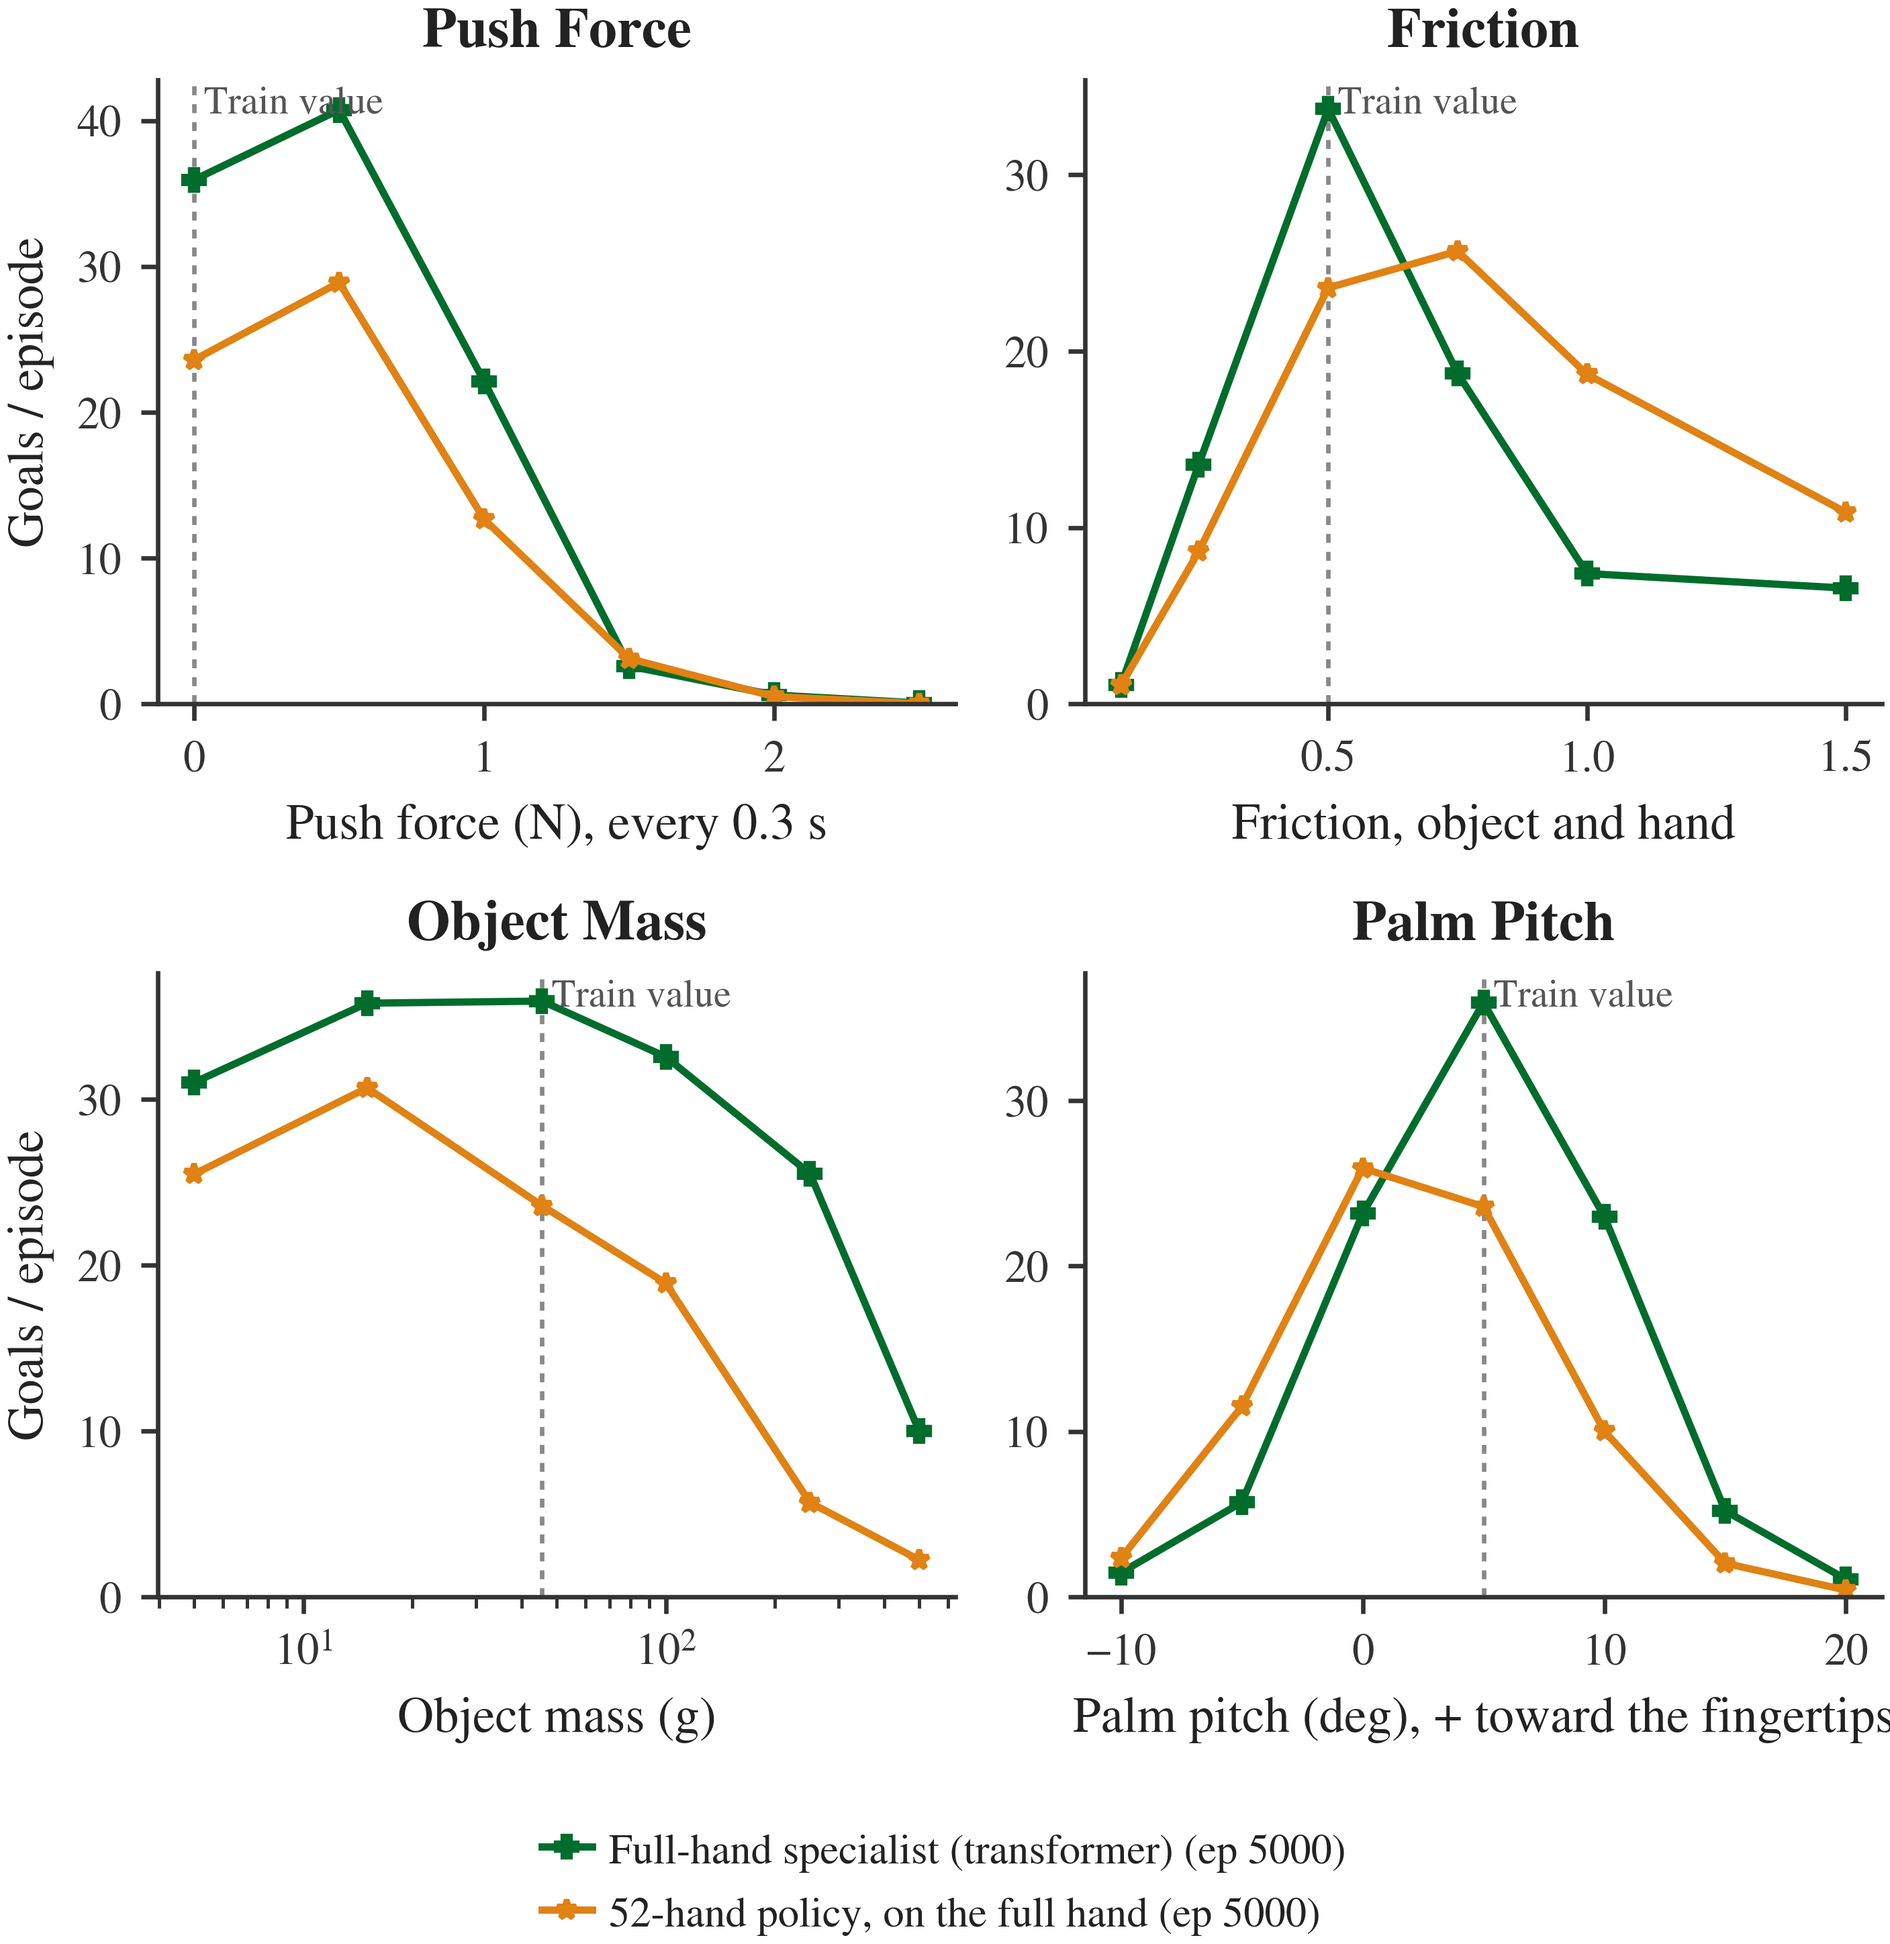
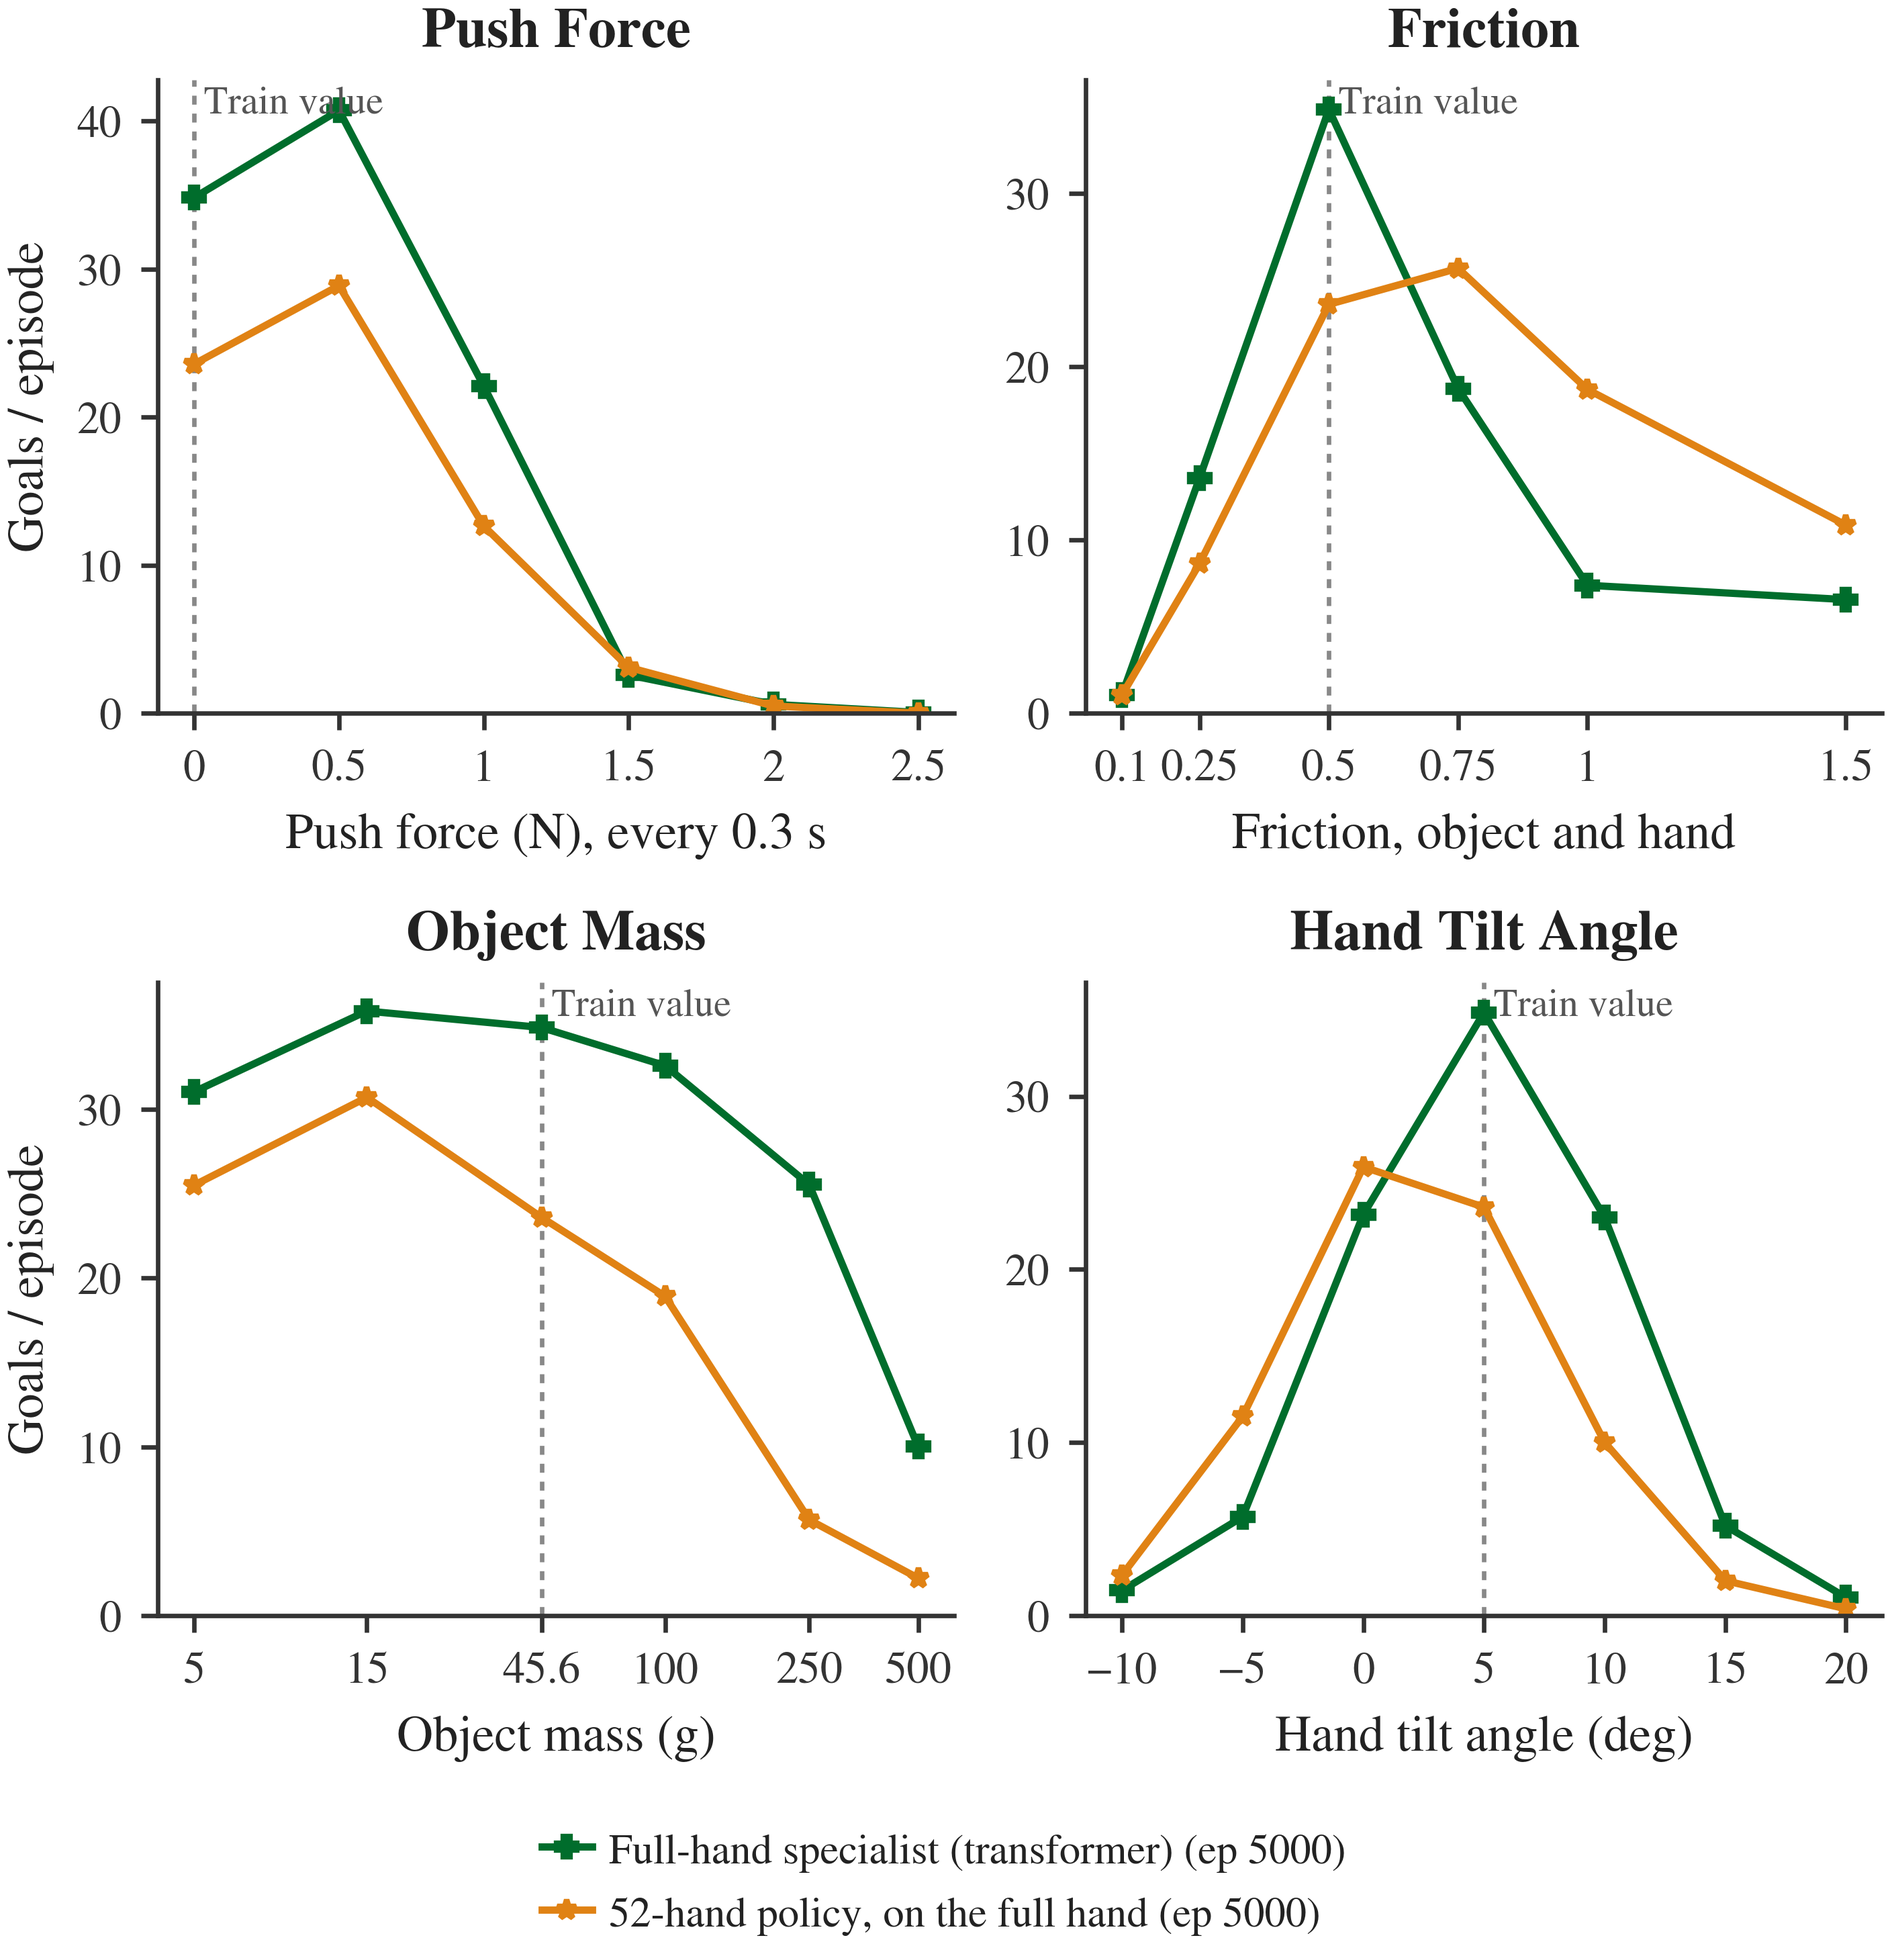
plot_ood: one x tick per evaluated value; 'hand tilt angle'; training-condition point pooled over all sweeps' evaluations (same on every panel); make_plots skips comparisons with no results
Claude-Session: https://claude.ai/code/session_01VEjfLD7vkNCwPYPC2HsL71

diff --git a/experiments/08oct_repro_wuji_full/analysis/plot_ood.py b/experiments/08oct_repro_wuji_full/analysis/plot_ood.py
@@ -22,6 +22,7 @@ import matplotlib
 matplotlib.use("Agg")
 import matplotlib.pyplot as plt  # noqa: E402
 from matplotlib.lines import Line2D  # noqa: E402
+from matplotlib.ticker import FixedFormatter, FixedLocator, NullLocator  # noqa: E402
 
 import paper_style as ps  # noqa: E402
 
@@ -53,7 +54,7 @@ AXES = {   # axis -> (title, x label, trained value, log x)
     "push": ("Push Force", "Push force (N), every 0.3 s", 0.0, False),
 }
 # Axes added later, each a figure of its own (ood_<axis>_<group>...), for the policies that have them.
-EXTRA_AXES = {"pitch": ("Palm Pitch", "Palm pitch (deg), + toward the fingertips", 5.0, False),
+EXTRA_AXES = {"pitch": ("Hand Tilt Angle", "Hand tilt angle (deg)", 5.0, False),
               "restitution": ("Object Restitution", "Object restitution (hand 0)", 0.0, False)}
 
 
@@ -88,17 +89,31 @@ def load(results: pathlib.Path) -> dict:
         if not m or m["emb"] not in EMBODIMENTS:
             continue
         key = (m["emb"], BEST if m["best"] else int(m["ep"]))
-        for axis in {**AXES, **EXTRA_AXES}:
-            f = d / f"{axis}.json"
-            if not f.exists():
-                continue
-            for r in json.loads(f.read_text())["results"].values():
+        every = {**AXES, **EXTRA_AXES}
+        records = {axis: list(json.loads((d / f"{axis}.json").read_text())["results"].values())
+                   for axis in every if (d / f"{axis}.json").exists()}
+        # The training condition is a point of every sweep. Plot one number for it on every panel: the mean over this
+        # policy's distinct evaluations of it (sweeps that start a fresh process at it -- mass, push, pitch,
+        # restitution -- replay the same 64 episodes exactly and count once; friction's comes third in its process,
+        # so it is a different draw).
+        nominal = {}
+        for axis, rs in records.items():
+            for r in rs:
+                if abs(r["value"] - every[axis][2]) < 1e-6:
+                    nominal[(r["goals_total"], r["drops_total"], r["sim_seconds"]) if "goals_total" in r
+                            else (axis,)] = r
+        pooled = {"goals_per_episode_first": sum(r["goals_per_episode_first"] for r in nominal.values()) / len(nominal),
+                  "goals_per_drop": sum(goals_per_drop(r) for r in nominal.values()) / len(nominal)} if nominal else {}
+        for axis, rs in records.items():
+            for r in rs:
                 if axis == "push" and r["value"] > PUSH_MAX:       # earlier grids went to 10 / 20 N
                     continue
                 if axis == "pitch" and not PITCH_RANGE[0] <= r["value"] <= PITCH_RANGE[1]:
                     continue
+                at_train = abs(r["value"] - every[axis][2]) < 1e-6
                 for metric, y in (("goals_per_episode_first", r["goals_per_episode_first"]),
                                   ("goals_per_drop", goals_per_drop(r))):
+                    y = pooled[metric] if at_train else y
                     raw.setdefault(key, {}).setdefault(axis, {}).setdefault(metric, {}).setdefault(
                         r["value"], []).append(y)
     data = {key: {axis: {metric: [(v, sum(ys) / len(ys), min(ys), max(ys), len(ys)) for v, ys in sorted(vals.items())]
@@ -151,12 +166,14 @@ def style(data, key):
 
 def _plot_row(axs, data, metric, relative, logy, axes):
     for ax, (axis, (title, xlabel, trained, logx)) in zip(axs, axes.items()):
+        evaluated = set()
         for key in ordered(data):
             name, color, marker = EMBODIMENTS[key[0]]
             pts = data[key].get(axis, {}).get(metric)
             if not pts:
                 continue
             xs, ys, los, his, ns = zip(*pts)
+            evaluated.update(xs)
             if relative:
                 base = min(pts, key=lambda p: abs(p[0] - trained))[1]
                 if not base or base != base:
@@ -177,6 +194,11 @@ def _plot_row(axs, data, metric, relative, logy, axes):
         ax.set_title(title, fontweight="bold")
         ax.set_xlabel(xlabel)
         ps.style_axis(ax)
+        if evaluated:          # one x tick per evaluated value (mass: 45.6 g is the trained cube)
+            ticks = sorted(evaluated)
+            ax.xaxis.set_major_locator(FixedLocator(ticks))
+            ax.xaxis.set_major_formatter(FixedFormatter([f"{t:.3g}".replace("-", "\u2212") for t in ticks]))
+            ax.xaxis.set_minor_locator(NullLocator())
 
 
 GRID_2X2 = ("push", "friction", "mass", "pitch")     # --all-axes: reading order, left to right then down

diff --git a/experiments/08oct_repro_wuji_full/plots/README.md b/experiments/08oct_repro_wuji_full/plots/README.md
@@ -1,9 +1,11 @@
 # OOD robustness: does a design that trains well also generalise?
 
-Each figure is a 2x2 of goals per episode: push force and friction on the top row, object mass and palm pitch on the
+Each figure is a 2x2 of goals per episode: push force and friction on the top row, object mass and hand tilt angle on the
 bottom. A dotted line marks the training value on each axis. Every policy was trained at a single fixed condition
 (no friction, mass or push randomisation). Lines are the mean over training seeds, bands the min-max range. Policies are
-the best-training-reward checkpoints, picked without looking at OOD data, unless a legend says otherwise.
+the best-training-reward checkpoints, picked without looking at OOD data, unless a legend says otherwise. Positive tilt
+angles slope the palm down toward the fingertips; training used 5 deg. The training-condition point is the same on
+every panel: per seed, the mean of all distinct evaluations of it across the sweeps.
 
 Protocol (`analysis/eval_ood.py`): 64 envs, the first episode of each env, greedy actions. Every setting is as trained
 except the swept one. Redraw with `analysis/make_plots.sh` as results land.
@@ -12,8 +14,8 @@ except the swept one. Redraw with `analysis/make_plots.sh` as results land.
 
 Full Wuji v2 vs the index + middle hand, MLP, 3 seeds each. Both score about the same in training
 (37 vs 31 goals per episode). Under push and high friction the full hand keeps most of its score and index + middle
-collapses: push 1 N gives 28 vs 2, friction 1.0 gives 24 vs 6. Mass and backward pitch separate the two moderately.
-Forward pitch does not separate them.
+collapses: push 1 N gives 28 vs 2, friction 1.0 gives 24 vs 6. Mass and backward tilt separate the two moderately.
+Forward tilt does not separate them.
 
 ## H1: fewer fingers, less robust (`h1_fewer_fingers_less_robust/`)
 
@@ -33,7 +35,7 @@ Only the finger links are scaled; the palm and the finger mounts stay the same.
 - `link_width.png`: the full hand vs finger links 120% as wide. Wider links score higher at the training condition
   (43 vs 37) and on friction above it (33 vs 24 at 1.0). Under push and at 500 g they are level with the full hand.
 
-The pitch panels fill in as those sweeps finish; wid120 seed 101 is still training.
+The tilt panels fill in as those sweeps finish; wid120 seed 101 is still training.
 
 ## H3: architecture, transformer vs MLP (`h3_transformer_vs_mlp/`)
 
@@ -44,7 +46,7 @@ The transformer scores higher on almost every axis: 44 vs 37 at the training con
 35 vs 28 at a 1 N push. On push and heavy objects it stays within the MLP's seed band. With one transformer seed this is
 a lead, not a result.
 
-Pitch for the transformers is pending.
+Tilt for the transformer is pending.
 
 ## H4: multi-embodiment training imbues robustness (`h4_multi_embodiment_robustness/`)
 
